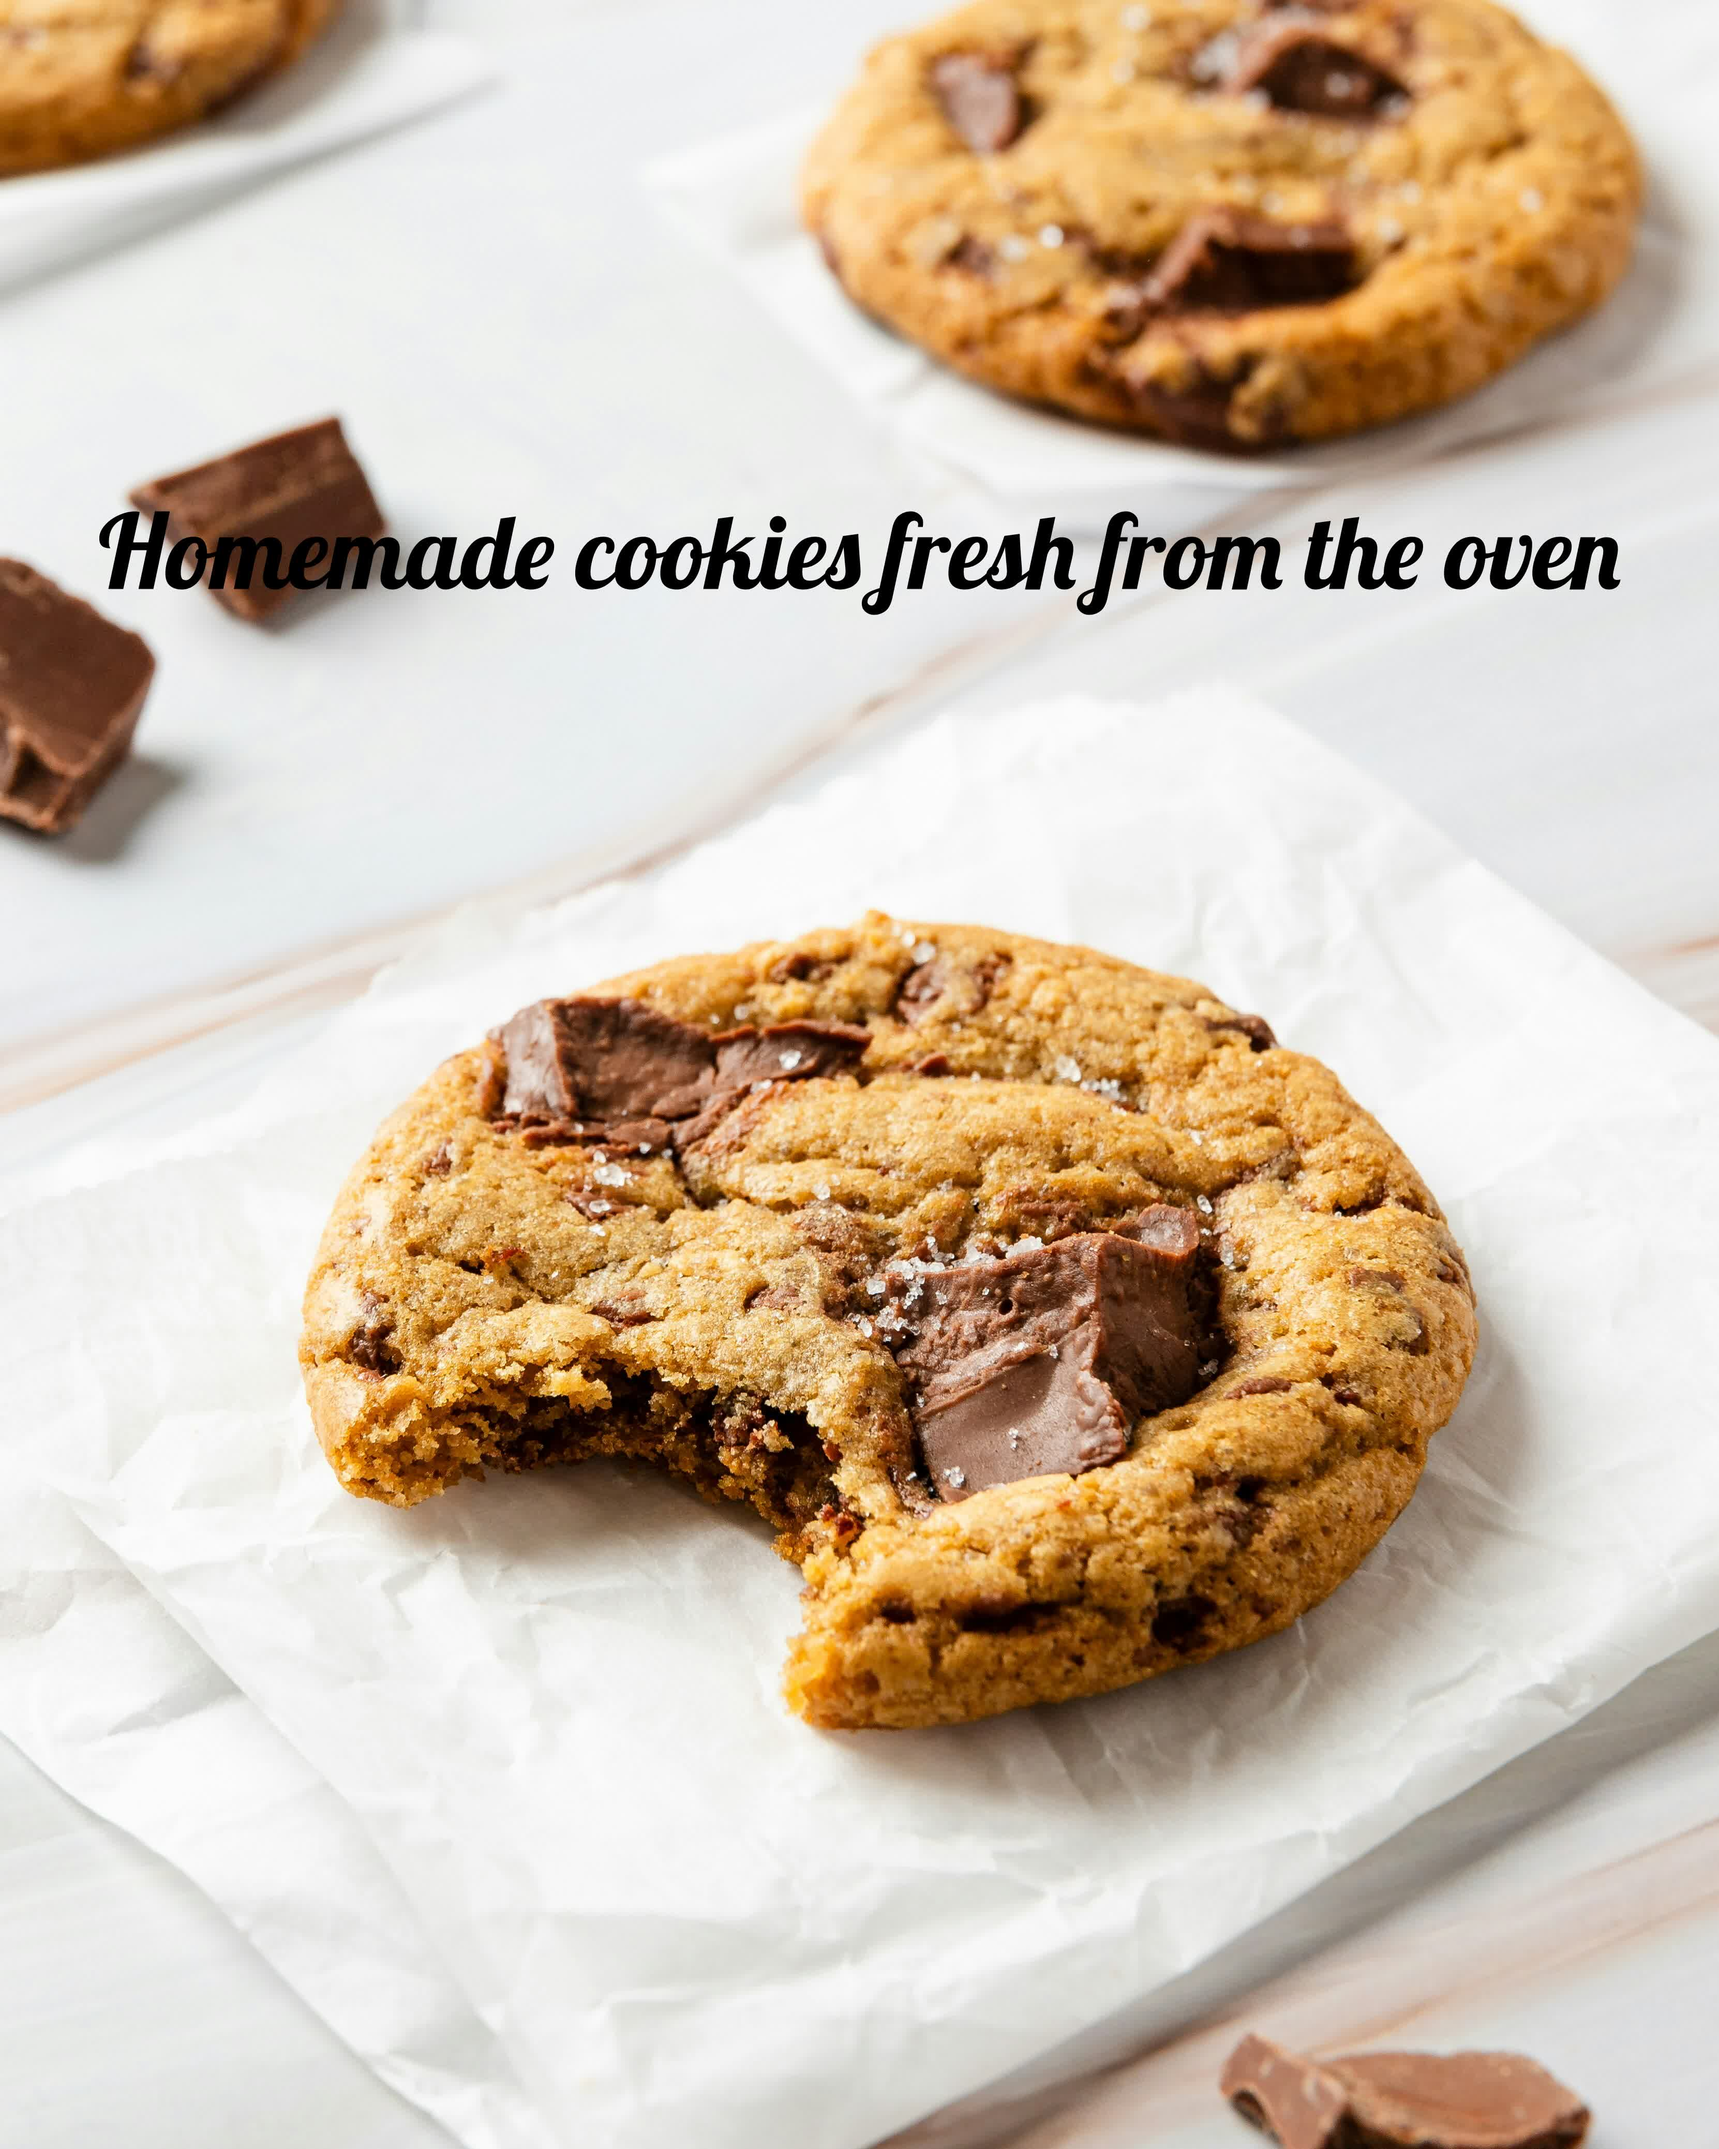
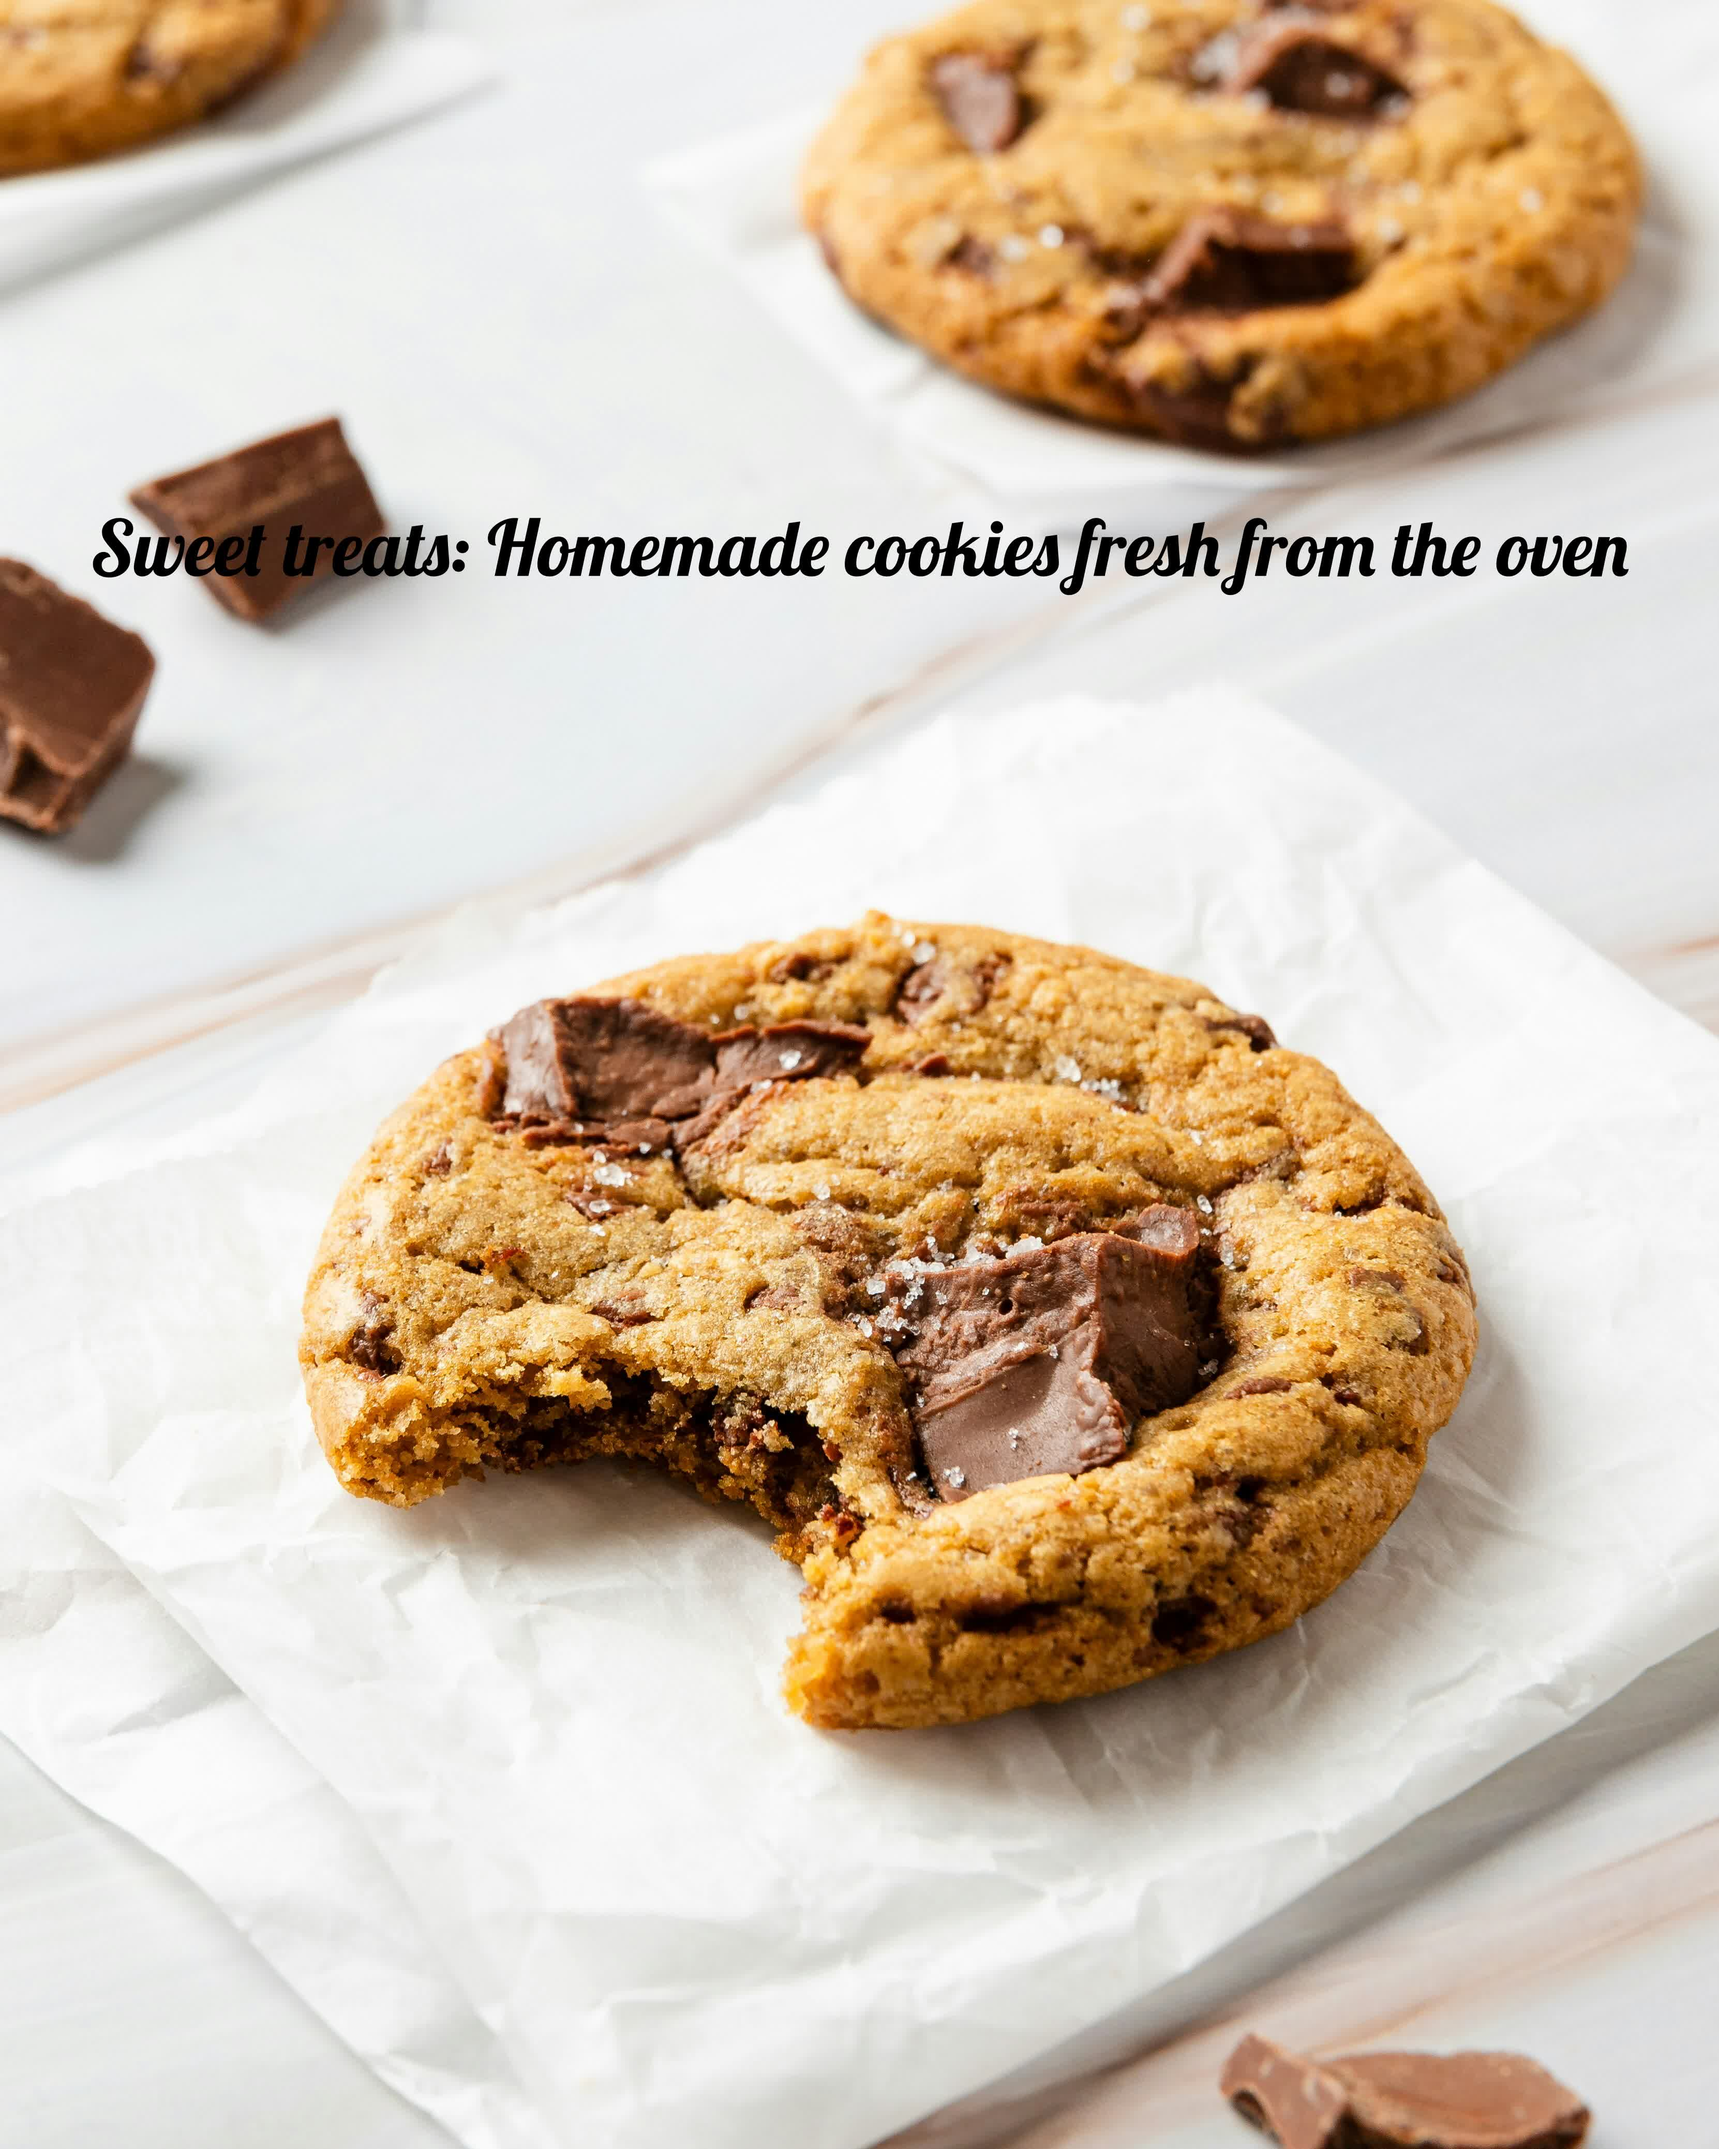
Fixed text error

Changed region(s): [[0.062, 0.2174, 0.9609, 0.2795]]

diff --git a/index.js b/index.js
@@ -3,12 +3,12 @@ const path = require('path');
 
 const inputImage = path.join(__dirname, '/cookies.jpg');
 const outputImage = path.join(__dirname, '/cookies_new.jpg');
-const captionText = "Sweet treats: Homemade cookies fresh from the oven";
+const captionText = "Sweet treats\\: Homemade cookies fresh from the oven";
 const fontPath = path.join(__dirname, '/fonts/Lobster/Lobster-Regular.ttf');
 
 ffmpeg(inputImage)
   .outputOptions([
-    '-vf', `drawtext=text='${captionText}':fontcolor=black:fontsize=200:fontfile=${fontPath}:x=(w-text_w)/2:y=(h-text_h)/4`,
+    '-vf', `drawtext=text='${captionText}':fontcolor=black:fontsize=150:fontfile=${fontPath}:x=(w-text_w)/2:y=(h-text_h)/4`,
     '-y'
   ])
   .save(outputImage)
